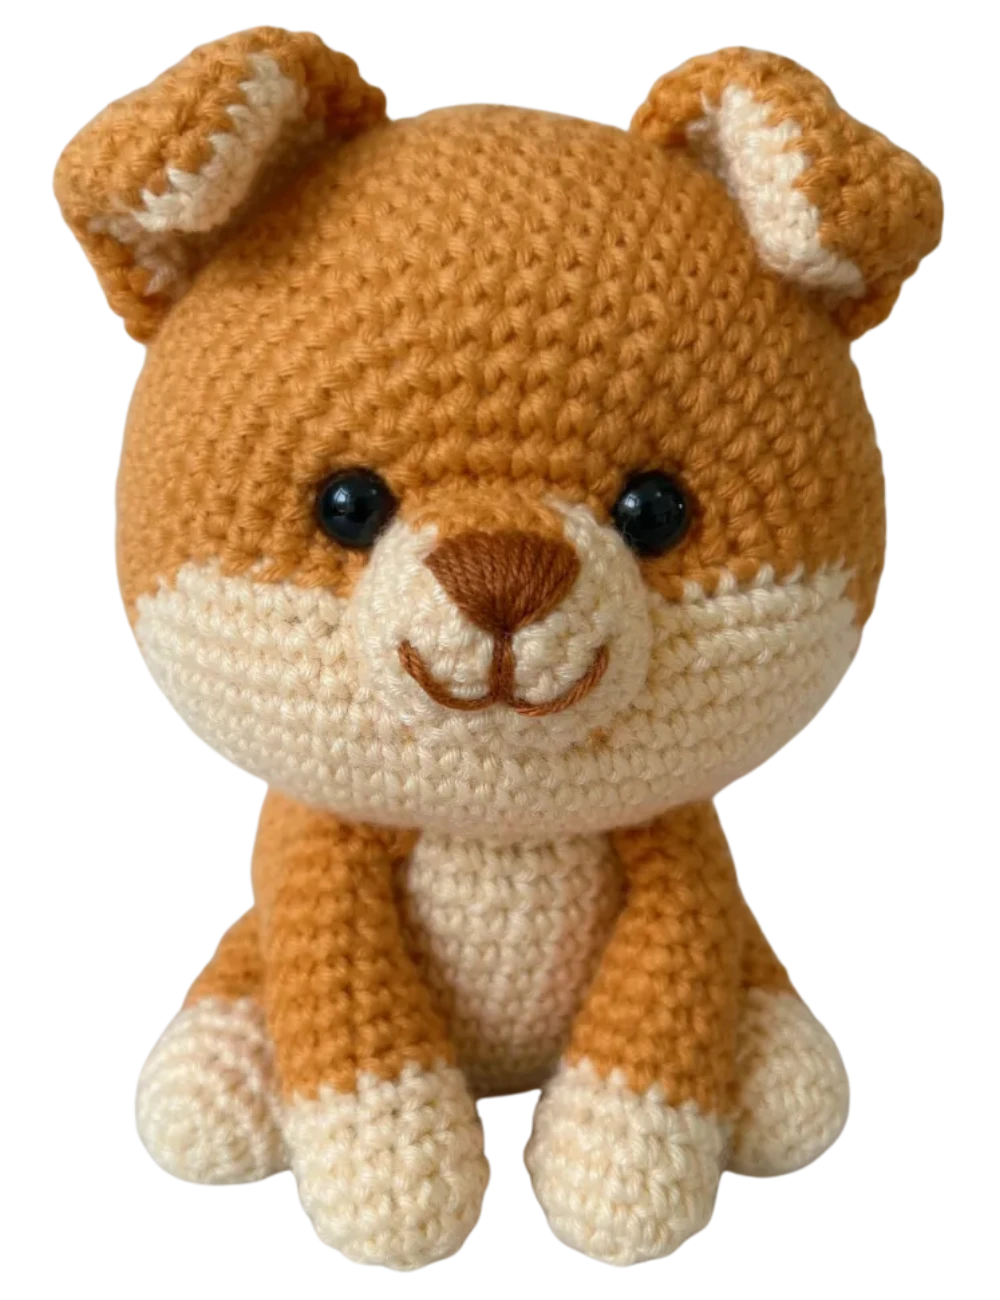
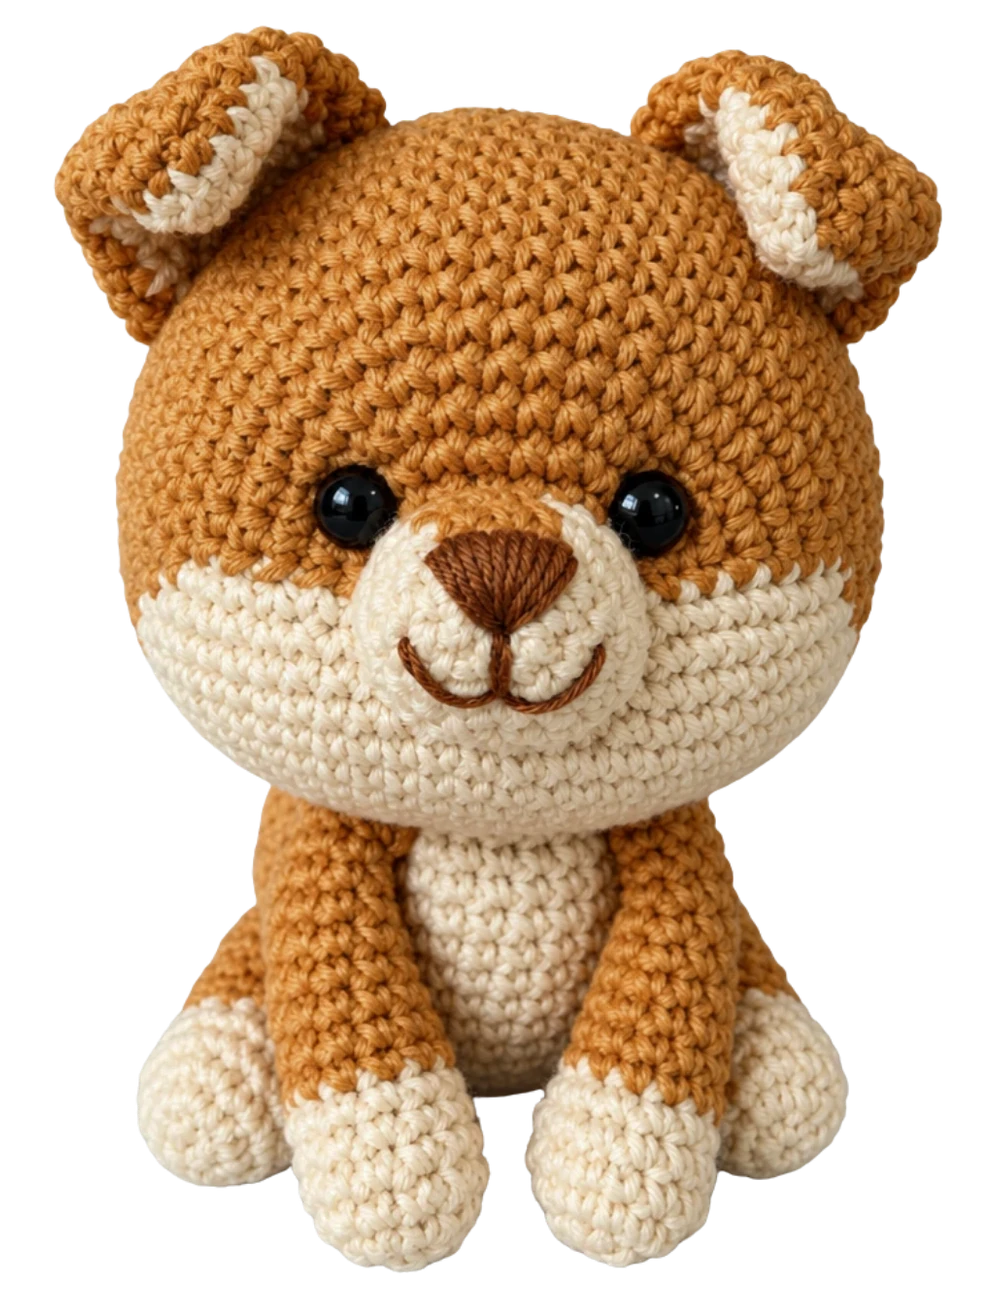
Sharper base dog art: same design, toned and aligned to the existing canvas

Changed region(s): [[0.031, 0.0, 0.961, 0.9846], [0.124, 0.8615, 0.155, 0.8923]]

diff --git a/docs/KANBAN.md b/docs/KANBAN.md
@@ -21,7 +21,7 @@ Today's plan (agreed 13 Oct evening), in order:
 | T1-13 | Dog mood on Home | P2 | Shared dog mood fed from API state; visual moods remain motion/glow. |
 | T1-15 | `/care` web page from the Miro frame | P2 / CodeBuddy | Done: landing, demo sign-in picker, This week, Alerts & caregivers, Settings. PR #14, #16, #21. The phone's Care/Settings screens already use the API (summary, consent, threshold min 2). Web page needs P1's caretaker list (see Blocked). |
 | T1-17 | Public HTTPS URL | P2 (+ P1 API) | **Front end in production:** `pawtner-care.vercel.app` (and `pawtner-mobile-three.vercel.app`) = `main` @ `2a182f9` incl. `/care` and PRs #28–#31 (deploy `pawtner-mobile-3ppynl9e6`, 15 Oct; typecheck, 78/78 tests, build). No hosted API yet: offline fallback; Taken and the emergency beat and walk work offline, the demo clock and Tier 2 screens need the API. P1's EdgeOne copy **`pawtner.edgeone.dev`** serves `main` @ `1fc0b53` with working `/care/*` deep links, but `/api/*` returns `index.html` (no function live; checked 15 Oct). API hosting code is on `main` (P1 pushed directly, 15 Oct): `api/[...path].ts` + ROOT `vercel.json` for Vercel, `functions/api/[[path]].mjs` for EdgeOne. Our Vercel project ignores the root `vercel.json` (Root Directory `mobile`; preview from `1fc0b53`: `/` and `/care` OK, `/api` 404). Going live needs either Root Directory → repo root + `DATABASE_URL` on Vercel, or a working EdgeOne function (+ CORS if split hosts), and the Supabase schema migrated (P1). Until then the deployed front end still runs on the offline fallback (beats 2 and 3 work; beat 1 needs the API). |
-| T1-18 | Dog assets | Design | Base dog + garden day/night done. Sleepy art (`dog-sleepy.webp`) and joyful art (`dog-joyful.webp`, `claude/joyful-art`) wired, same canvas as the base; content and attentive still use the base art. |
+| T1-18 | Dog assets | Design | Base dog + garden day/night done; base dog replaced with a sharper version of the same art (toned and aligned to the old canvas, 15 Oct). Sleepy art (`dog-sleepy.webp`) and joyful art (`dog-joyful.webp`, `claude/joyful-art`) wired, same canvas as the base; content and attentive still use the base art. |
 
 ## Backlog (Tier 1)
 
